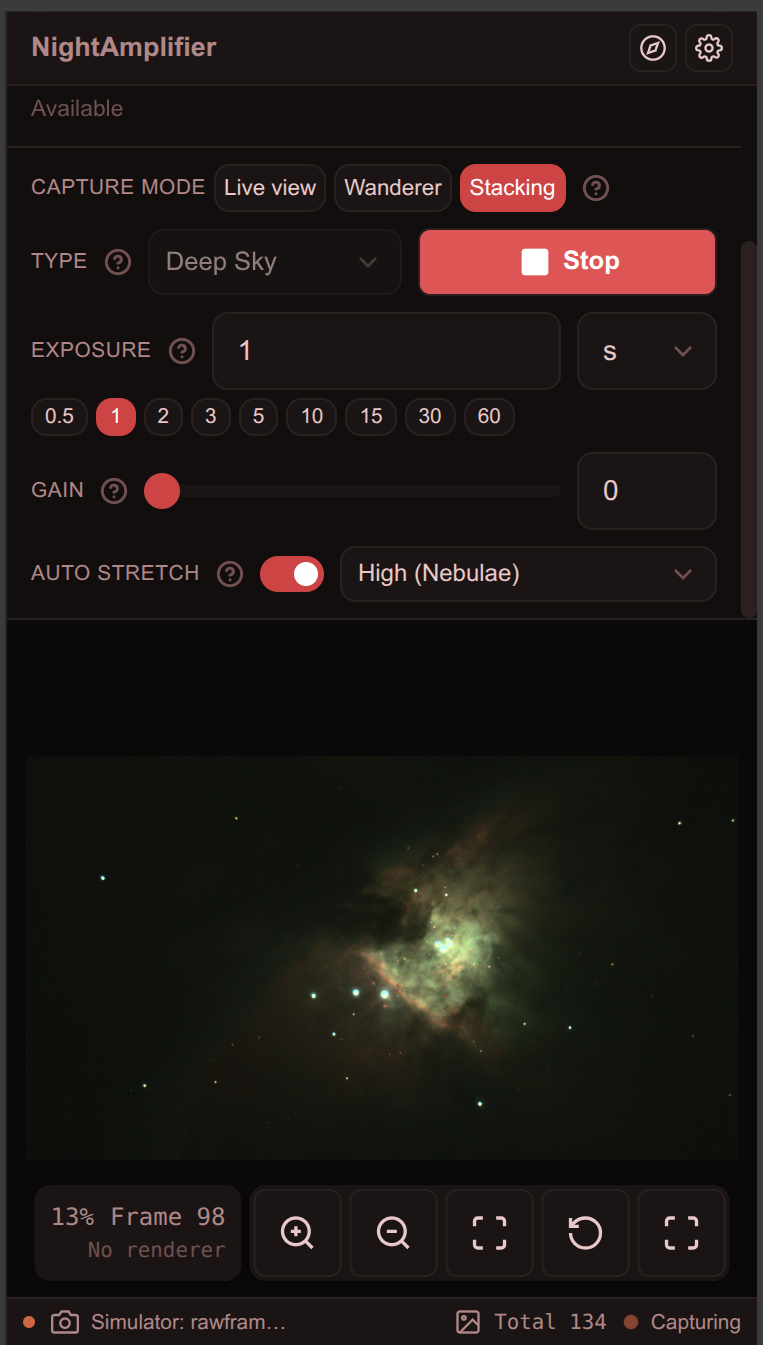
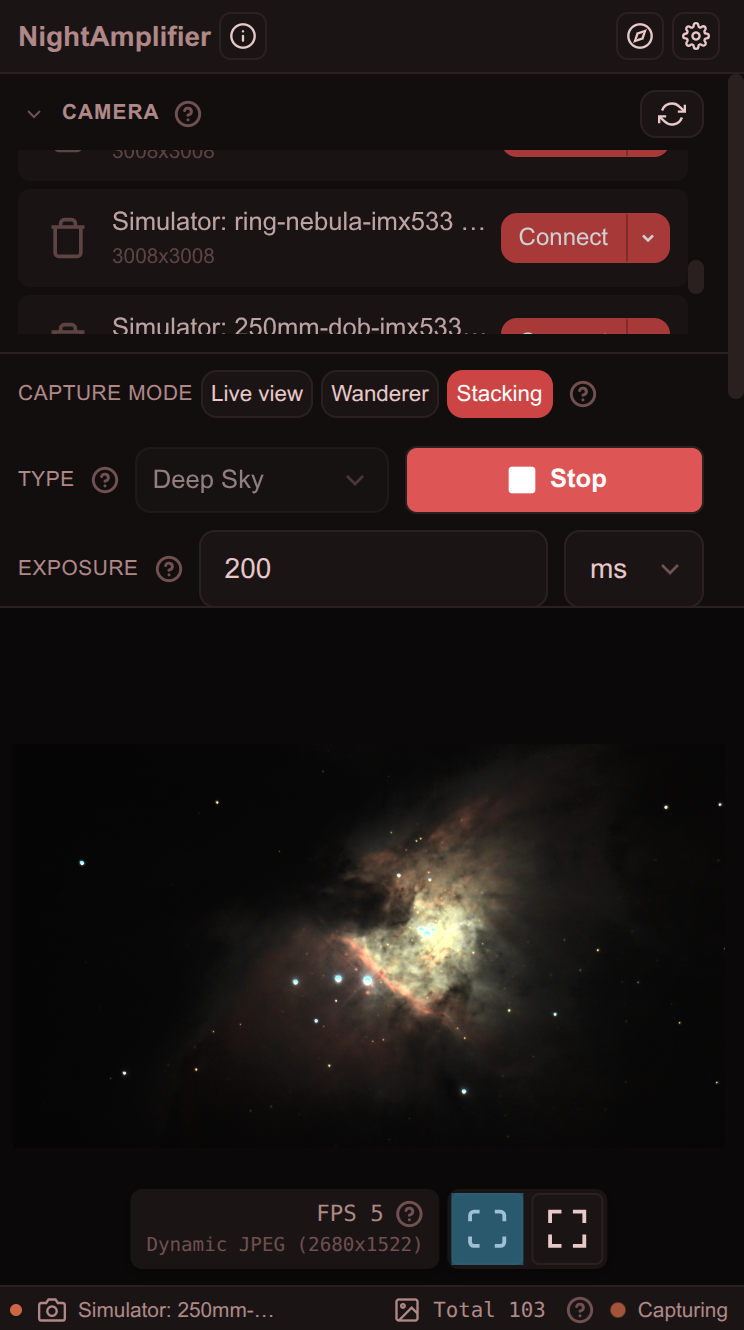
Updating manual screenshots

Changed region(s): [[0.0, 0.0, 1.0, 1.0], [0.4019, 0.5857, 0.6801, 0.7707], [0.2782, 0.4008, 0.4328, 0.4624]]

diff --git a/README.md b/README.md
@@ -2,9 +2,9 @@
 
 Live stacking Web application for Electronically Assisted Astronomy - https://skycontrast.com/software/night-amplifier
 
-|                                Mobile View                                |                             Desktop View                             |
-|:-------------------------------------------------------------------------:|:--------------------------------------------------------------------:|
-| <img src="manual/mobile_device_view.png" height="450" alt="Mobile View"/> | <img src="manual/desktop_view.png" height="450" alt="Desktop View"/> |
+|                             Eyepiece View                              |                             Mobile Main View                              |                          Desktop Main View                           |
+|:----------------------------------------------------------------------:|:-------------------------------------------------------------------------:|:--------------------------------------------------------------------:|
+| <img src="manual/eyepiece_view.png" height="450" alt="Eyepiece View"/> | <img src="manual/mobile_device_view.png" height="450" alt="Mobile View"/> | <img src="manual/desktop_view.png" height="450" alt="Desktop View"/> |
 
 ## Supported Platforms
 
